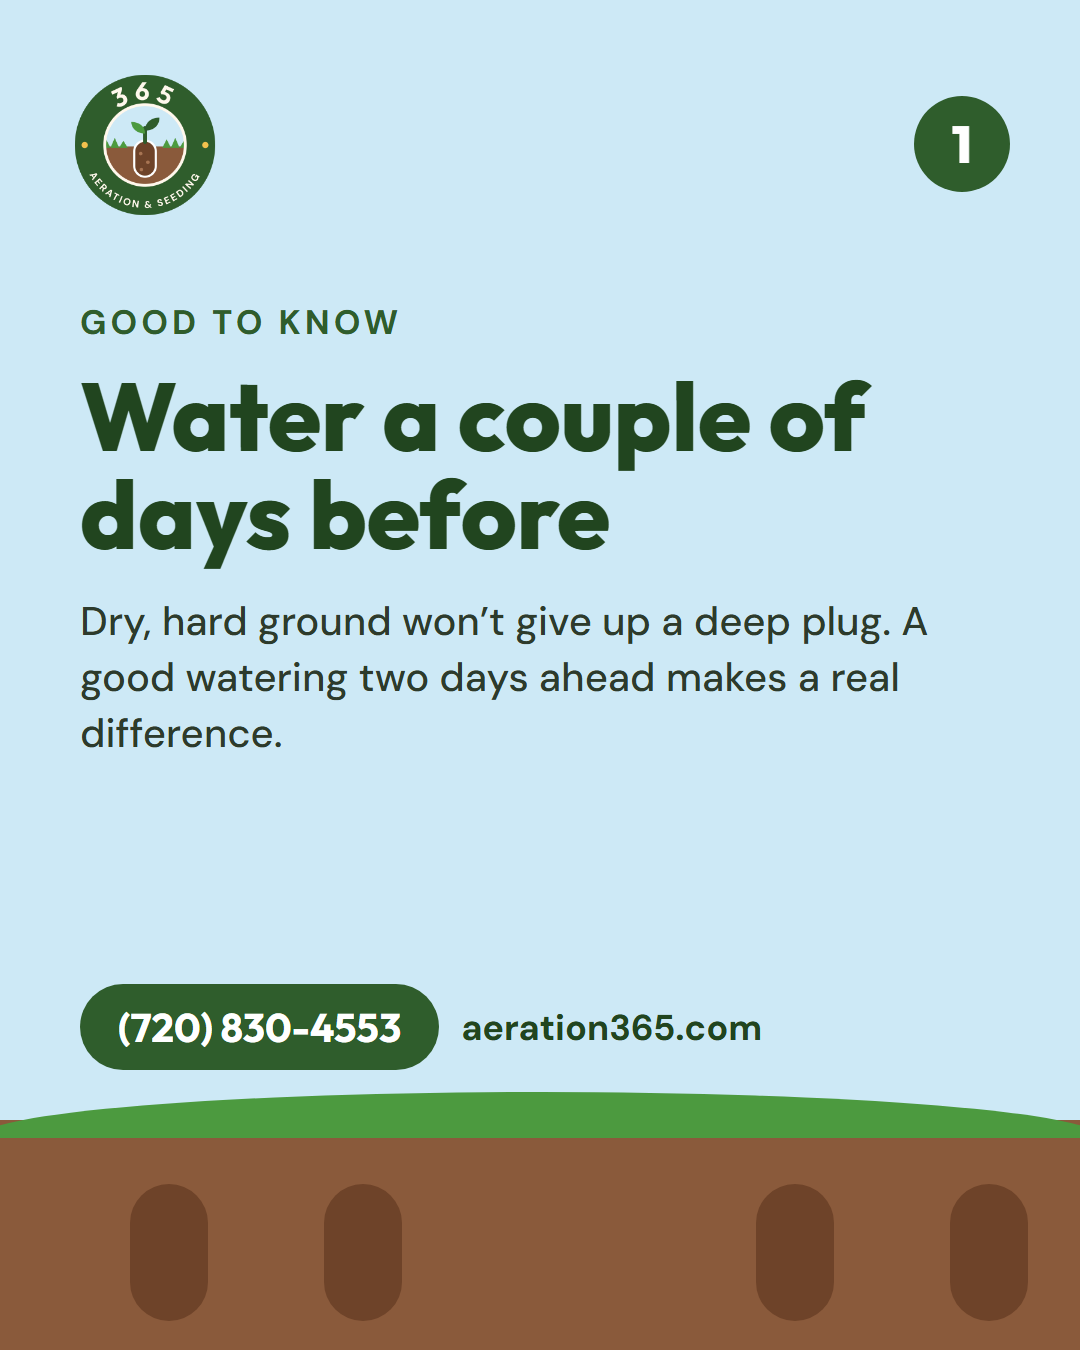
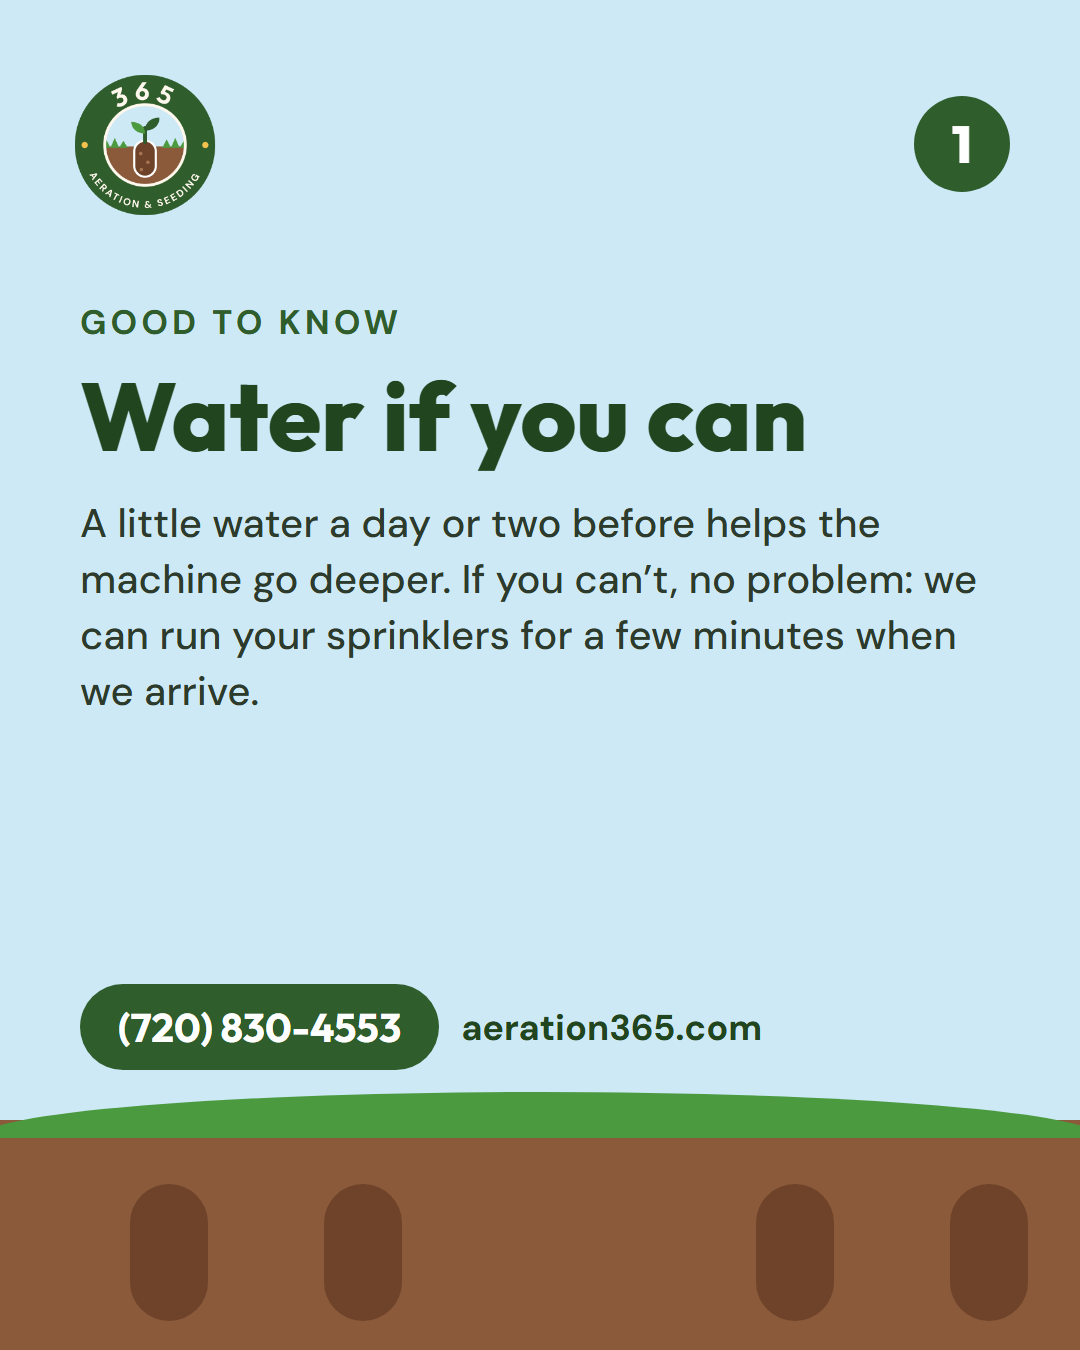
365 Aeration: watering tip softened (water if you can, or we run the sprinklers when we arrive) on the site, tip-1 post and guides; live

Changed region(s): [[0.0611, 0.28, 0.8861, 0.56], [0.8556, 0.4044, 0.9167, 0.4356]]

diff --git a/sixfold/aeration365-site/index.html b/sixfold/aeration365-site/index.html
@@ -112,7 +112,7 @@
 <section class="know"><div class="wrap">
   <h2>Good to know</h2>
   <div class="tips">
-    <div class="tip"><span class="dot">1</span><div><b>Water a couple of days before</b><span>Dry, hard ground won't give up a deep plug. A good watering two days ahead makes a real difference.</span></div></div>
+    <div class="tip"><span class="dot">1</span><div><b>Water if you can</b><span>A little water a day or two before helps the machine go deeper. If you can't, no problem: we can run your sprinklers for a few minutes when we arrive.</span></div></div>
     <div class="tip"><span class="dot">2</span><div><b>The plugs stay on the lawn</b><span>They look a little messy for a week or two, then break down back into the grass. That's part of the benefit.</span></div></div>
     <div class="tip"><span class="dot">3</span><div><b>Spring and fall work best</b><span>Any time the ground isn't frozen, but not when it's hot and dry.</span></div></div>
   </div>

diff --git a/sixfold/aeration365-site/FACT-CHECK.md b/sixfold/aeration365-site/FACT-CHECK.md
@@ -28,7 +28,7 @@ Test: scratchpad `ptest/a365site-test.mjs`, 20/20 checks.
 | Plugs about two to three inches deep | CSU Extension PlantTalk 1505, *Lawn Aeration* (holes 2–3 in deep, 2–4 in apart) | Verified 2026-09-25 (aeration ad kit); same source reused |
 | On compacted ground, aeration lets water and fertilizer reach the roots instead of running off | CSU PlantTalk 1505 (compaction sheds water; aeration helps water and fertilizer reach the root zone) | Verified 2026-09-25 |
 | Seed straight after aerating, the order CSU Extension describes for thickening a thin lawn | CSU Extension fact sheet 7.241, *Renovating the Home Lawn* (overseeding after core aeration) | Verified 2026-09-25 |
-| Water a couple of days before: dry ground won't give up a deep plug | CSU PlantTalk 1505 (water a couple of days prior for deep plugs) | Verified 2026-09-25 |
+| Water if you can: a little water a day or two before helps the machine go deeper | CSU PlantTalk 1505 (water a couple of days prior for deep plugs) | Verified 2026-09-25. **Softened 2026-10-14** (Matthew, after Bryce: asking customers to prepare gives them reasons to cancel). "We can run your sprinklers when we arrive" is our own offer, not a source fact; the crew must actually do it |
 | The plugs stay on the lawn and break down back into the grass | UMass Amherst Extension, *Management of Compaction and Coring* (cores left on the surface and broken down as topdressing) | Verified 2026-09-25. "A week or two" of looking untidy is our own wording, not a source figure |
 | Spring and fall work best; any time the ground isn't frozen, but not when hot and dry | CSU PlantTalk 1505 | Verified 2026-09-25 |
 | "Denver metro" | Matthew's service area: 45 miles of 333 W Hampden Ave, Englewood. The Facebook kit says "Denver metro" too | Business fact |

diff --git a/sixfold/brand/aeration-365/kit/UPLOAD-GUIDE.md b/sixfold/brand/aeration-365/kit/UPLOAD-GUIDE.md
@@ -36,7 +36,7 @@ These are drafts. Post them when you choose to; nothing goes out from here.
 | File | Use |
 |---|---|
 | `social/post-intro-1080x1350.png` | A first post: who we are and how to reach us |
-| `social/post-tip1-water-1080x1350.png` | Tip 1: water a couple of days before (CSU Extension PlantTalk 1505) |
+| `social/post-tip1-water-1080x1350.png` | Tip 1: water if you can, or we run your sprinklers when we arrive (CSU Extension PlantTalk 1505) |
 | `social/post-tip2-plugs-1080x1350.png` | Tip 2: the plugs stay on the lawn (UMass Amherst Extension) |
 | `social/post-tip3-season-1080x1350.png` | Tip 3: spring and fall work best (CSU PlantTalk 1505) |
 | `social/story-quote-1080x1920.png` | A story; add a link sticker to aeration365.com when you post it |
